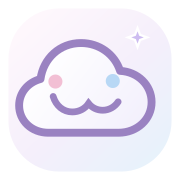
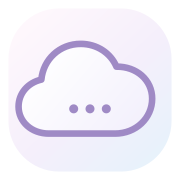
fix: unify footer layout and refine cloud mark

diff --git a/src/components/layout/AppFooter.vue b/src/components/layout/AppFooter.vue
@@ -11,7 +11,7 @@ withDefaults(defineProps<{ compact?: boolean }>(), { compact: false })
 <template>
   <footer class="app-footer" :class="{ 'app-footer--compact': compact }">
     <div class="page-shell">
-      <div class="app-footer__cloud">
+      <div class="app-footer__content">
         <div class="app-footer__primary">
           <RouterLink
             class="app-footer__brand"
@@ -32,54 +32,53 @@ withDefaults(defineProps<{ compact?: boolean }>(), { compact: false })
         <p class="app-footer__summary">
           文章、作品和可以带走的小工具，都收在这片云里。收藏与偏好只保存在当前浏览器。
         </p>
-      </div>
-
-      <div class="app-footer__legal">
-        <p class="app-footer__note">
-          <IconGlyph name="heart" :size="14" />
-          {{ siteConfig.footer.text }}
-        </p>
-        <div
-          v-if="siteConfig.footer.icp || siteConfig.footer.publicSecurity"
-          class="app-footer__beian"
-        >
-          <a
-            v-if="siteConfig.footer.icp"
-            class="beian-item"
-            :href="siteConfig.footer.icp.href"
-            target="_blank"
-            rel="noopener noreferrer"
+        <div class="app-footer__legal">
+          <p class="app-footer__note">
+            <IconGlyph name="heart" :size="14" />
+            {{ siteConfig.footer.text }}
+          </p>
+          <div
+            v-if="siteConfig.footer.icp || siteConfig.footer.publicSecurity"
+            class="app-footer__beian"
           >
-            {{ siteConfig.footer.icp.number }}
-          </a>
-          <a
-            v-if="siteConfig.footer.publicSecurity"
-            class="beian-item"
-            :href="siteConfig.footer.publicSecurity.href"
-            target="_blank"
-            rel="noopener noreferrer"
-          >
-            <img
-              v-if="!iconFailed"
-              :src="siteConfig.footer.publicSecurity.iconUrl"
-              alt=""
-              width="16"
-              height="16"
-              loading="lazy"
-              @error="iconFailed = true"
-            />
-            <span>{{ siteConfig.footer.publicSecurity.number }}</span>
-          </a>
+            <a
+              v-if="siteConfig.footer.icp"
+              class="beian-item"
+              :href="siteConfig.footer.icp.href"
+              target="_blank"
+              rel="noopener noreferrer"
+            >
+              {{ siteConfig.footer.icp.number }}
+            </a>
+            <a
+              v-if="siteConfig.footer.publicSecurity"
+              class="beian-item"
+              :href="siteConfig.footer.publicSecurity.href"
+              target="_blank"
+              rel="noopener noreferrer"
+            >
+              <img
+                v-if="!iconFailed"
+                :src="siteConfig.footer.publicSecurity.iconUrl"
+                alt=""
+                width="16"
+                height="16"
+                loading="lazy"
+                @error="iconFailed = true"
+              />
+              <span>{{ siteConfig.footer.publicSecurity.number }}</span>
+            </a>
+          </div>
+          <p v-if="siteConfig.footer.imageDisclaimer" class="app-footer__disclaimer">
+            {{ siteConfig.footer.imageDisclaimer }}
+            <a
+              v-if="siteConfig.friendsPage.applicationEmail"
+              :href="`mailto:${siteConfig.friendsPage.applicationEmail}`"
+            >
+              联系邮箱
+            </a>
+          </p>
         </div>
-        <p v-if="siteConfig.footer.imageDisclaimer" class="app-footer__disclaimer">
-          {{ siteConfig.footer.imageDisclaimer }}
-          <a
-            v-if="siteConfig.friendsPage.applicationEmail"
-            :href="`mailto:${siteConfig.friendsPage.applicationEmail}`"
-          >
-            联系邮箱
-          </a>
-        </p>
       </div>
     </div>
   </footer>
@@ -87,23 +86,17 @@ withDefaults(defineProps<{ compact?: boolean }>(), { compact: false })
 
 <style scoped>
 .app-footer {
-  padding-block: clamp(3rem, 7vw, 5rem) 1.5rem;
-  font-size: var(--text-xs);
-  color: var(--color-text-secondary);
-}
-.app-footer__cloud {
-  padding: clamp(2rem, 5vw, 3.25rem);
-  border: 1px solid var(--color-rim);
-  border-radius: 2.25rem;
+  margin-top: clamp(3rem, 7vw, 5rem);
+  padding-block: clamp(2.25rem, 5vw, 3.5rem) 1.5rem;
+  border-top: 1px solid var(--color-border);
   background: linear-gradient(
     112deg,
-    rgb(var(--tone-rose) / 0.11),
-    var(--color-surface-glass) 42%,
-    rgb(var(--tone-blue) / 0.2) 100%
+    rgb(var(--tone-rose) / 0.07),
+    transparent 42%,
+    rgb(var(--tone-blue) / 0.11) 100%
   );
-  box-shadow:
-    inset 0 1px 0 var(--color-rim),
-    0 20px 45px -34px rgb(87 92 140 / 30%);
+  font-size: var(--text-xs);
+  color: var(--color-text-secondary);
 }
 .app-footer__primary {
   display: flex;
@@ -111,8 +104,6 @@ withDefaults(defineProps<{ compact?: boolean }>(), { compact: false })
   gap: 1.5rem 2rem;
   align-items: center;
   justify-content: space-between;
-  border-top: 1px solid var(--color-border);
-  padding-top: clamp(2rem, 4vw, 2.75rem);
 }
 .app-footer__brand,
 .app-footer__brand-mark,
@@ -164,7 +155,7 @@ withDefaults(defineProps<{ compact?: boolean }>(), { compact: false })
   flex-wrap: wrap;
   gap: 0.25rem 1.5rem;
   align-items: center;
-  padding: 1.1rem clamp(0.25rem, 1vw, 0.75rem) 0;
+  margin-top: 1.35rem;
 }
 .app-footer__note,
 .app-footer__beian,
@@ -199,14 +190,9 @@ withDefaults(defineProps<{ compact?: boolean }>(), { compact: false })
   text-underline-offset: 0.2em;
 }
 @media (max-width: 640px) {
-  .app-footer__cloud {
-    padding: 1.5rem;
-    border-radius: 1.75rem;
-  }
   .app-footer__primary {
     align-items: flex-start;
     flex-direction: column;
-    padding-top: 1.5rem;
   }
   .app-footer__nav {
     justify-content: flex-start;

diff --git a/src/components/ui/CloudBrandMark.vue b/src/components/ui/CloudBrandMark.vue
@@ -2,22 +2,15 @@
   <svg class="cloud-brand-mark" viewBox="0 0 48 48" role="img" aria-label="清蒸云鸭云朵标识">
     <path
       class="cloud-brand-mark__wash"
-      d="M12.8 35.6c-5.1 0-8.8-3.7-8.8-8.2 0-3.8 2.6-7 6.4-8 .7-6.3 5.7-11 12.2-11 5.5 0 10.2 3.4 11.8 8.4 5.4.2 9.6 4.3 9.6 9.4 0 5.2-4.4 9.4-10 9.4Z"
+      d="M13.1 36.1c-5.2 0-9.1-3.5-9.1-8.1 0-4 2.8-7.2 6.8-8.1.6-6.1 5.5-10.7 11.8-10.7 4.8 0 8.9 2.7 10.7 6.8 6-.1 10.7 4 10.7 9.6 0 5.8-4.9 10.5-11.1 10.5Z"
     />
     <path
       class="cloud-brand-mark__line"
-      d="M12.8 35.6c-5.1 0-8.8-3.7-8.8-8.2 0-3.8 2.6-7 6.4-8 .7-6.3 5.7-11 12.2-11 5.5 0 10.2 3.4 11.8 8.4 5.4.2 9.6 4.3 9.6 9.4 0 5.2-4.4 9.4-10 9.4Z"
+      d="M13.1 36.1c-5.2 0-9.1-3.5-9.1-8.1 0-4 2.8-7.2 6.8-8.1.6-6.1 5.5-10.7 11.8-10.7 4.8 0 8.9 2.7 10.7 6.8 6-.1 10.7 4 10.7 9.6 0 5.8-4.9 10.5-11.1 10.5Z"
     />
-    <path
-      class="cloud-brand-mark__curl"
-      d="M14.5 24.7c.8 2.8 3.1 4.7 5.8 4.7 2.1 0 3.9-1 5-2.6 1 1.2 2.5 2 4.2 2 2 0 3.7-1 4.7-2.6"
-    />
-    <circle class="cloud-brand-mark__dot cloud-brand-mark__dot--rose" cx="15.4" cy="20.2" r="2" />
-    <circle class="cloud-brand-mark__dot cloud-brand-mark__dot--blue" cx="32.7" cy="20" r="2" />
-    <path
-      class="cloud-brand-mark__spark"
-      d="m38.1 8.4.8 2.1 2.1.8-2.1.8-.8 2.1-.8-2.1-2.1-.8 2.1-.8Z"
-    />
+    <circle class="cloud-brand-mark__dot" cx="19.1" cy="29" r="1.2" />
+    <circle class="cloud-brand-mark__dot" cx="24" cy="29" r="1.2" />
+    <circle class="cloud-brand-mark__dot" cx="28.9" cy="29" r="1.2" />
   </svg>
 </template>
 
@@ -31,27 +24,15 @@
 .cloud-brand-mark__wash {
   fill: rgb(var(--tone-lilac) / 0.18);
 }
-.cloud-brand-mark__line,
-.cloud-brand-mark__curl {
+.cloud-brand-mark__line {
   fill: none;
-  stroke: color-mix(in srgb, var(--color-link) 72%, var(--color-blue));
-  stroke-width: 2.1;
+  stroke: color-mix(in srgb, var(--color-link) 58%, var(--color-blue));
+  stroke-width: 1.8;
   stroke-linecap: round;
   stroke-linejoin: round;
   vector-effect: non-scaling-stroke;
 }
-.cloud-brand-mark__curl {
-  stroke-width: 1.8;
-}
-.cloud-brand-mark__dot--rose {
-  fill: rgb(var(--tone-rose));
-}
-.cloud-brand-mark__dot--blue {
-  fill: rgb(var(--tone-blue));
-}
-.cloud-brand-mark__spark {
-  fill: rgb(var(--tone-lilac));
-  stroke: var(--color-rim);
-  stroke-width: 0.8;
+.cloud-brand-mark__dot {
+  fill: color-mix(in srgb, var(--color-link) 58%, var(--color-blue));
 }
 </style>
